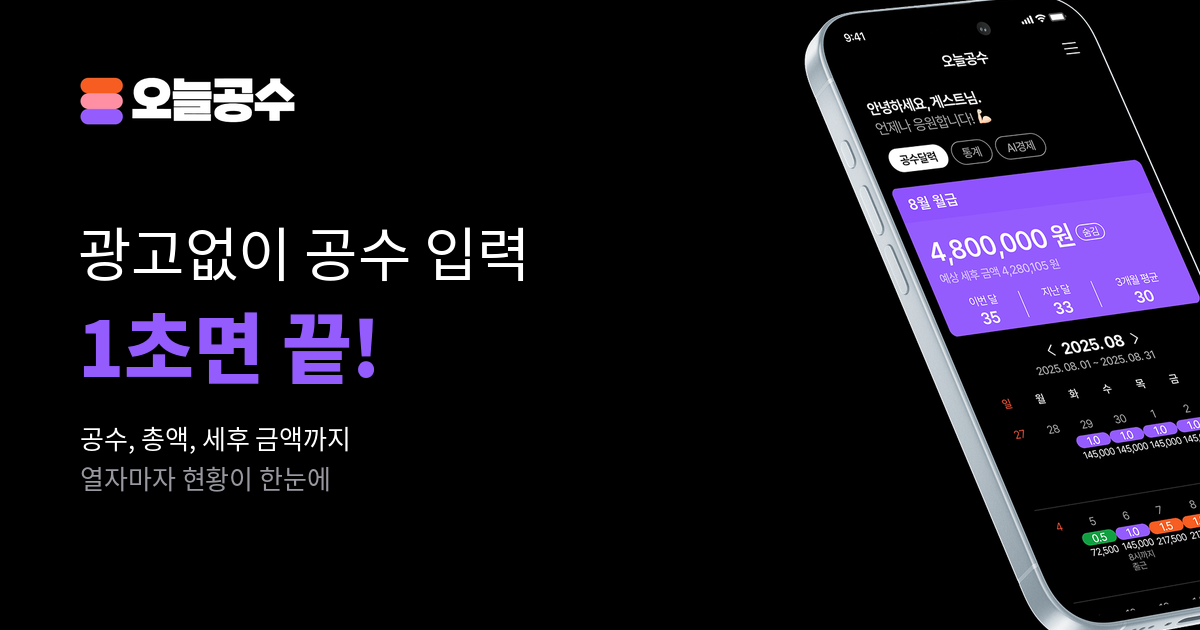
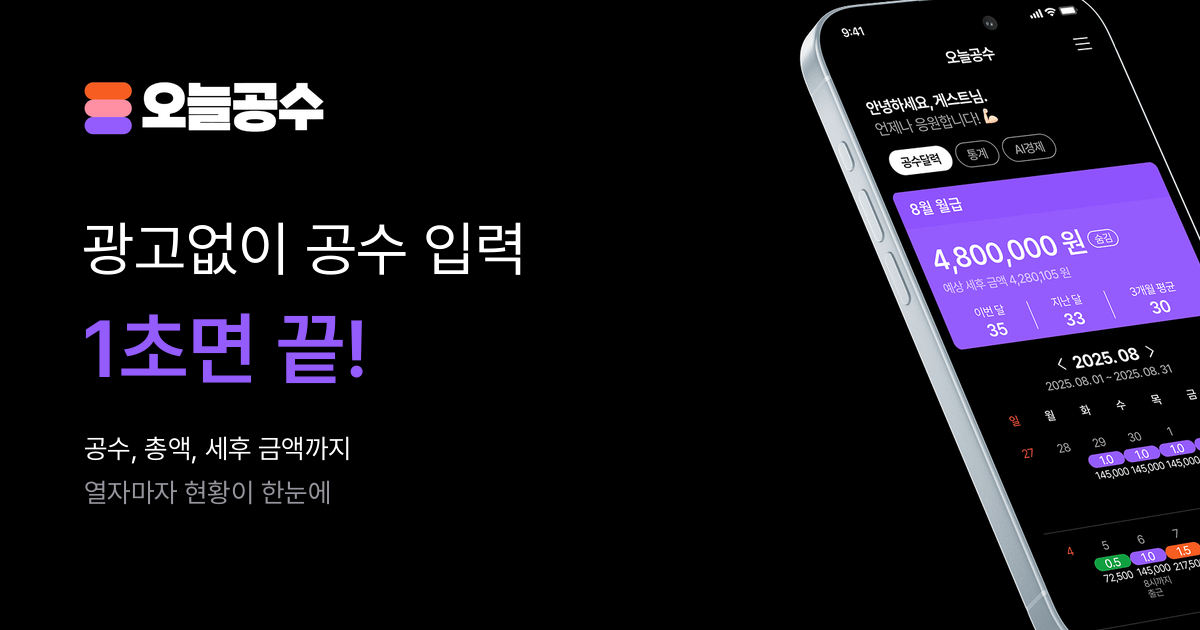
GA 측정 ID 연결 + OG 이미지 최신본 교체

diff --git a/index.html b/index.html
@@ -199,7 +199,7 @@ var CONFIG = {
   PRIVACY_URL : '',            /* 개인정보처리방침 주소 — 비우면 링크 자동 숨김 */
   CONTACT_MAIL: '',            /* 문의 이메일 — 비우면 링크 자동 숨김 */
 
-  GA_ID : '',                  /* 구글 애널리틱스 측정 ID (G-로 시작) */
+  GA_ID : 'G-RWEYC4B4NX',      /* 구글 애널리틱스 측정 ID (G-로 시작) */
 
   AUTO_REDIRECT : false,       /* true = 접속 즉시 스토어로 이동. ?go=1 링크는 항상 이동 */
   AUTO_DELAY_MS : 900,
